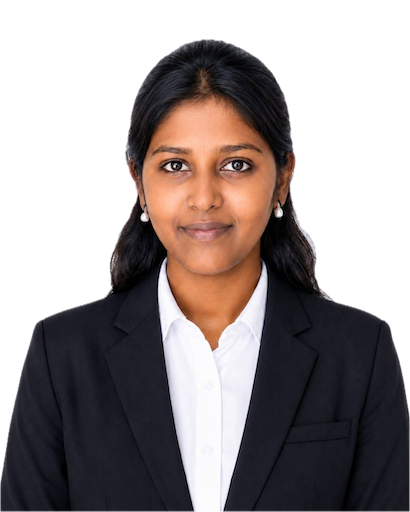
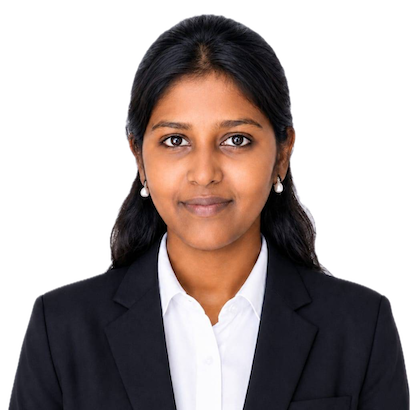
Refactor code structure for improved readability and maintainability

diff --git a/vector/src/App.css b/vector/src/App.css
@@ -162,12 +162,13 @@ h2 { font-size: clamp(52px, 7vw, 104px); line-height: .87; text-transform: upper
 
 .nav-overlay-wrapper { position: fixed; inset: 0; z-index: 100; display: none; }.overlay { position: absolute; inset: 0; border: 0; padding: 0; background: rgba(8,8,11,.78); backdrop-filter: blur(10px); cursor: pointer; }.menu-content { position: absolute; inset: 0; overflow: hidden; }.menu-bg, .ambient-background-shapes { position: absolute; inset: 0; }.menu-bg, .menu-content-wrapper, .ambient-background-shapes { pointer-events: none; }.backdrop-layer { position: absolute; inset: 0; transform-origin: left center; }.backdrop-layer.first { background: #0d0c10; }.backdrop-layer.second { background: #131118; }.backdrop-layer:last-child { background: linear-gradient(160deg, #1c1730, #0e0d12 70%); }.ambient-background-shapes { overflow: hidden; }.bg-shape { position: absolute; inset: 0; opacity: 0; transition: opacity .3s ease; }.bg-shape.active { opacity: 1; }.shape-element { transform-origin: center; }.nav-close-btn { position: absolute; top: 20px; right: 4vw; z-index: 3; display: inline-flex; align-items: center; gap: 14px; background: none; border: 0; padding: 0; color: var(--muted); font: inherit; cursor: pointer; pointer-events: auto; transition: color .2s ease; }.nav-close-btn:hover { color: var(--ink); }.menu-button-text { font-family: 'DM Mono', monospace; font-size: 10px; letter-spacing: .12em; text-transform: uppercase; }.icon-wrap { display: grid; place-items: center; width: 34px; height: 34px; border: 1px solid var(--line); border-radius: 50%; transition: border-color .3s ease; }.nav-close-btn:hover .icon-wrap { border-color: rgba(203,147,255,.55); }.menu-button-icon { width: 14px; height: 14px; color: var(--violet); }.menu-content-wrapper { position: absolute; inset: 0; display: flex; flex-direction: column; justify-content: center; z-index: 2; }.menu-list { position: relative; z-index: 2; list-style: none; margin: 0; padding: 0 8vw; display: grid; gap: 6px; }.menu-list-item { display: flex; align-items: baseline; }.nav-link { position: relative; display: inline-block; overflow: hidden; font-size: clamp(42px, 8vw, 96px); line-height: 1.08; letter-spacing: -.055em; text-transform: uppercase; color: var(--ink); transition: color .25s ease; padding: 2px 6px; pointer-events: auto; }.nav-link:hover { color: var(--violet); }.nav-link-text { position: relative; z-index: 1; }.nav-link-hover-bg { position: absolute; inset: 0; background: rgba(203,147,255,.12); transform: scaleX(0); transform-origin: left; transition: transform .45s cubic-bezier(.65, .05, 0, 1); }.nav-link:hover .nav-link-hover-bg { transform: scaleX(1); }.menu-secondary { position: absolute; left: 8vw; right: 8vw; bottom: 40px; display: flex; align-items: center; flex-wrap: wrap; gap: 10px 26px; z-index: 2; pointer-events: auto; }.menu-secondary-label { font-family: 'DM Mono', monospace; font-size: 9px; letter-spacing: .16em; color: var(--cyan); }.menu-secondary-link { font-family: 'DM Mono', monospace; font-size: 11px; letter-spacing: .1em; text-transform: uppercase; color: var(--muted); transition: color .2s ease; }.menu-secondary-link:hover { color: var(--violet); }
 
-.volunteers { max-width: none; background: var(--void); }.volunteers-heading { max-width: 820px; margin-bottom: 72px; }.volunteers-heading h2 { margin-top: 22px; }.volunteers-heading > p:not(.eyebrow) { color: var(--muted); line-height: 1.7; margin-top: 26px; }.volunteer-grid { display: grid; grid-template-columns: repeat(auto-fit, minmax(min(300px, 100%), 1fr)); gap: 1px; background: var(--line); border: 1px solid var(--line); width: 100%; }.volunteer-card { background: var(--surface); cursor: pointer; overflow: hidden; }.volunteer-card-inner { display: block; }.volunteer-card-photo { position: relative; aspect-ratio: 4 / 5; overflow: hidden; }.volunteer-card-photo img { width: 100%; height: 100%; object-fit: cover; filter: grayscale(1); transition: filter .4s ease, transform .5s ease; }.volunteer-card:hover .volunteer-card-photo img { filter: grayscale(0); transform: scale(1.04); }.volunteer-card-index { position: absolute; right: 16px; top: 14px; width: 34px; height: 34px; border: 1px solid rgba(128,224,223,.5); border-radius: 100%; display: grid; place-content: center; color: var(--cyan); font-family: 'DM Mono', monospace; font-size: 16px; background: rgba(10,10,14,.6); backdrop-filter: blur(4px); transition: rotate .3s ease; }.volunteer-card:hover .volunteer-card-index { rotate: 45deg; }.volunteer-card-meta { padding: 20px 22px 24px; border-top: 1px solid var(--line); display: grid; gap: 5px; }.volunteer-card-name { font-size: 18px; letter-spacing: -.04em; font-weight: 500; }.volunteer-card-role { color: var(--muted); font-size: 12px; }.volunteer-group { margin-top: 80px; }.volunteer-group-title { font-family: 'DM Mono', monospace; font-size: 10px; line-height: 1.4; letter-spacing: .13em; text-transform: uppercase; color: var(--violet); display: flex; align-items: center; gap: 16px; margin: 0 0 28px; }.volunteer-group-title::after { content: ''; flex: 1; height: 1px; background: var(--line); }.volunteer-feature-grid { display: grid; grid-template-columns: repeat(auto-fit, minmax(min(300px, 100%), 460px)); justify-content: center; gap: 24px; }.volunteer-feature { background: var(--surface); border: 1px solid var(--line); }.volunteer-feature .volunteer-card-photo { aspect-ratio: 4 / 5; }.volunteer-feature .volunteer-card-meta { padding: 26px 28px 30px; }.volunteer-feature .volunteer-card-name { font-size: 26px; }.volunteer-feature .volunteer-card-role { font-size: 14px; }
+.volunteers { max-width: none; background: var(--void); }.volunteers-heading { max-width: 820px; margin-bottom: 72px; }.volunteers-heading h2 { margin-top: 22px; }.volunteers-heading > p:not(.eyebrow) { color: var(--muted); line-height: 1.7; margin-top: 26px; }.volunteers-stats { display: flex; flex-wrap: wrap; align-items: center; gap: 12px 22px; margin-top: 34px; font-family: 'DM Mono', monospace; font-size: 11px; letter-spacing: .12em; text-transform: uppercase; color: var(--cyan); }.volunteers-stats span { display: inline-flex; align-items: center; gap: 10px; }.volunteers-stats span + span::before { content: '✦'; color: var(--violet); font-size: 8px; }.volunteer-grid { display: grid; grid-template-columns: repeat(auto-fit, minmax(min(300px, 100%), 1fr)); gap: 1px; background: var(--line); border: 1px solid var(--line); width: 100%; }.volunteer-card { background: var(--surface); cursor: pointer; overflow: hidden; }.volunteer-card-inner { display: block; }.volunteer-card-photo { position: relative; aspect-ratio: 4 / 5; overflow: hidden; }.volunteer-card-photo img { width: 100%; height: 100%; object-fit: cover; object-position: top; filter: grayscale(1); transition: filter .4s ease, transform .5s ease; }.volunteer-card:hover .volunteer-card-photo img { filter: grayscale(0); transform: scale(1.04); }.volunteer-card-index { position: absolute; right: 16px; top: 14px; width: 34px; height: 34px; border: 1px solid rgba(128,224,223,.5); border-radius: 100%; display: grid; place-content: center; color: var(--cyan); font-family: 'DM Mono', monospace; font-size: 16px; background: rgba(10,10,14,.6); backdrop-filter: blur(4px); transition: rotate .3s ease; }.volunteer-card:hover .volunteer-card-index { rotate: 45deg; }.volunteer-card-meta { padding: 20px 22px 24px; border-top: 1px solid var(--line); display: grid; gap: 5px; }.volunteer-card-name { font-size: 18px; letter-spacing: -.04em; font-weight: 500; }.volunteer-card-role { color: var(--muted); font-family: 'DM Mono', monospace; font-size: 11px; letter-spacing: .1em; text-transform: uppercase; }.volunteer-group { margin-top: 80px; }.volunteer-group-title { font-family: 'DM Mono', monospace; font-size: 10px; line-height: 1.4; letter-spacing: .13em; text-transform: uppercase; color: var(--violet); display: flex; align-items: center; gap: 16px; margin: 0 0 28px; }.volunteer-group-title::after { content: ''; flex: 1; height: 1px; background: var(--line); }.volunteer-feature-grid { display: grid; grid-template-columns: repeat(auto-fit, minmax(min(300px, 100%), 420px)); justify-content: center; gap: 28px; }.volunteer-feature { position: relative; background: var(--surface); border: 1px solid var(--line); overflow: hidden; }.volunteer-feature::after { content: ''; position: absolute; inset: 0; background: radial-gradient(120% 60% at 50% 0%, rgba(203,147,255,.14), transparent 62%); opacity: 0; transition: opacity .35s ease; pointer-events: none; }.volunteer-feature:hover::after { opacity: 1; }.volunteer-feature .volunteer-card-photo { aspect-ratio: 4 / 5; }.volunteer-feature .volunteer-card-meta { padding: 26px 28px 30px; }.volunteer-feature .volunteer-card-name { font-size: 25px; }.volunteer-feature .volunteer-card-role { font-family: 'DM Mono', monospace; font-size: 11px; letter-spacing: .12em; text-transform: uppercase; color: var(--cyan); }
 
-.profile-modal-backdrop { position: fixed; inset: 0; background: rgba(8,8,11,.82); backdrop-filter: blur(8px); z-index: 200; display: grid; place-items: center; padding: 24px; }.profile-modal-content { position: relative; width: min(960px, 100%); background: var(--surface); border: 1px solid var(--line); overflow: hidden; }.profile-modal-close { position: absolute; top: 14px; right: 14px; z-index: 2; width: 38px; height: 38px; border: 1px solid var(--line); background: rgba(10,10,14,.7); color: var(--ink); font-size: 20px; line-height: 1; cursor: pointer; }.profile-modal-body { display: grid; grid-template-columns: 5fr 6fr; }.profile-modal-image { position: relative; overflow: hidden; aspect-ratio: 4 / 5; }.profile-modal-image img { position: absolute; inset: 0; width: 100%; height: 100%; object-fit: cover; object-position: top; display: block; }.profile-modal-info { padding: 44px 40px; }.profile-modal-info h2 { font-size: clamp(32px, 4vw, 52px); line-height: .95; }.profile-role { color: var(--violet); font-family: 'DM Mono', monospace; font-size: 11px; letter-spacing: .08em; text-transform: uppercase; margin-top: 14px; }.profile-bio { color: var(--muted); line-height: 1.7; font-size: 14px; margin: 26px 0 34px; }.profile-social { display: flex; gap: 12px; }.profile-social a { width: 44px; height: 44px; border: 1px solid var(--line); border-radius: 100%; display: grid; place-items: center; color: var(--violet); transition: border-color .3s ease, color .3s ease, scale .3s ease; }.profile-social a:hover { border-color: var(--cyan); color: var(--cyan); scale: 1.06; }.profile-social svg { width: 18px; height: 18px; }
+.profile-modal-backdrop { position: fixed; inset: 0; background: rgba(8,8,11,.82); backdrop-filter: blur(8px); z-index: 200; display: grid; place-items: center; padding: 24px; }.profile-modal-content { position: relative; width: min(960px, 100%); max-height: calc(100dvh - 48px); overflow-y: auto; background: var(--surface); border: 1px solid var(--line); }.profile-modal-close { position: absolute; top: 14px; right: 14px; z-index: 2; width: 38px; height: 38px; border: 1px solid var(--line); background: rgba(10,10,14,.7); color: var(--ink); font-size: 20px; line-height: 1; cursor: pointer; }.profile-modal-body { display: grid; grid-template-columns: 5fr 6fr; }.profile-modal-image { position: relative; overflow: hidden; aspect-ratio: 4 / 5; }.profile-modal-image img { position: absolute; inset: 0; width: 100%; height: 100%; object-fit: cover; object-position: top; display: block; }.profile-modal-info { padding: 44px 40px; }.profile-modal-info h2 { font-size: clamp(32px, 4vw, 52px); line-height: .95; }.profile-role { color: var(--violet); font-family: 'DM Mono', monospace; font-size: 11px; letter-spacing: .08em; text-transform: uppercase; margin-top: 14px; }.profile-bio { color: var(--muted); line-height: 1.7; font-size: 14px; margin: 26px 0 34px; }.profile-social { display: flex; gap: 12px; }.profile-social a { width: 44px; height: 44px; border: 1px solid var(--line); border-radius: 100%; display: grid; place-items: center; color: var(--violet); transition: border-color .3s ease, color .3s ease, scale .3s ease; }.profile-social a:hover { border-color: var(--cyan); color: var(--cyan); scale: 1.06; }.profile-social svg { width: 18px; height: 18px; }
 
 .cinematic-footer { position: relative; height: 100dvh; }.cinematic-footer-panel { position: fixed; bottom: 0; left: 0; width: 100%; height: 100dvh; overflow: hidden; display: flex; flex-direction: column; justify-content: space-between; background: var(--void); }.footer-aurora { position: absolute; left: 50%; top: 50%; width: 80vw; height: 60vh; transform: translate(-50%, -50%); border-radius: 50%; filter: blur(48px); background: radial-gradient(circle, rgba(203,147,255,.16), rgba(128,224,223,.08) 45%, transparent 70%); animation: footer-breathe 9s ease-in-out infinite alternate; pointer-events: none; }.footer-grid { position: absolute; inset: 0; background-image: linear-gradient(rgba(232,229,237,.04) 1px, transparent 1px), linear-gradient(90deg, rgba(232,229,237,.04) 1px, transparent 1px); background-size: 60px 60px; -webkit-mask-image: linear-gradient(180deg, transparent, #000 25%, #000 75%, transparent); mask-image: linear-gradient(180deg, transparent, #000 25%, #000 75%, transparent); pointer-events: none; }.footer-giant { position: absolute; bottom: -4vh; left: 50%; font-family: 'DM Mono', monospace; font-size: clamp(110px, 22vw, 380px); line-height: .8; letter-spacing: -.08em; white-space: nowrap; color: transparent; -webkit-text-stroke: 1px rgba(203,147,255,.14); text-stroke: 1px rgba(203,147,255,.14); background: linear-gradient(180deg, rgba(232,229,237,.16), transparent 65%); -webkit-background-clip: text; background-clip: text; user-select: none; pointer-events: none; }.footer-marquee { position: absolute; top: 0; left: 0; right: 0; overflow: hidden; border-bottom: 1px solid var(--line); background: rgba(13,12,16,.7); backdrop-filter: blur(8px); padding: 12px 0; z-index: 2; }.footer-marquee-track { display: flex; width: max-content; animation: footer-marquee 38s linear infinite; }.footer-marquee-track span { font-family: 'DM Mono', monospace; font-size: 10px; letter-spacing: .18em; text-transform: uppercase; color: var(--muted); padding: 0 26px; white-space: nowrap; }.footer-marquee-track b { color: var(--violet); font-weight: 400; }.footer-body { position: relative; z-index: 1; display: flex; flex-direction: column; align-items: center; justify-content: center; flex: 1; gap: 26px; padding: 0 6vw; text-align: center; }.footer-body h2 { font-size: clamp(48px, 8vw, 118px); }.footer-actions { display: flex; gap: 12px; flex-wrap: wrap; justify-content: center; }.footer-bottom { position: relative; z-index: 1; display: flex; align-items: center; justify-content: space-between; gap: 20px; padding: 22px 6vw 30px; border-top: 1px solid var(--line); }.footer-date { font-family: 'DM Mono', monospace; font-size: 10px; letter-spacing: .1em; text-transform: uppercase; color: var(--soft); }.footer-mark { font-size: 18px; color: var(--ink); }.footer-mark span { color: var(--violet); }.footer-top-btn { width: 42px; height: 42px; border: 1px solid var(--line); border-radius: 50%; display: grid; place-items: center; color: var(--violet); background: transparent; cursor: pointer; transition: border-color .2s ease, color .2s ease, transform .2s ease; }.footer-top-btn:hover { border-color: rgba(203,147,255,.5); color: var(--cyan); transform: translateY(-2px); }.footer-top-btn:active { transform: translateY(0) scale(.96); }.footer-top-btn svg { width: 14px; height: 14px; }@keyframes footer-breathe { from { transform: translate(-50%, -50%) scale(1); opacity: .55; } to { transform: translate(-50%, -50%) scale(1.12); opacity: 1; } }@keyframes footer-marquee { to { transform: translateX(-50%); } }
 
-@media (max-width: 850px) { .profile-modal-backdrop { padding: 12px; }.profile-modal-body { grid-template-columns: 1fr; }.profile-modal-image { aspect-ratio: 4 / 3; }.profile-modal-info { padding: 28px 24px 32px; }.site-header { padding: 0; }.header-main { padding: 0 20px; gap: 14px; }.header-announce { gap: 16px; padding: 8px 20px; }.header-announce span + span::before { left: -10px; }.nav { display: none; margin-left: 0; }.resource-nav { display: none; }.header-search { width: min(220px, 40vw); }.search-field { width: 100%; }.nav-cta { margin-left: auto; }.menu-button { display: grid; gap: 5px; width: 32px; height: 32px; border: 0; margin-left: 0; background: transparent; padding: 7px 0 7px 8px; }.menu-button span { width: 23px; height: 1px; background: var(--ink); display: block; }.hero { padding: 150px 24px 36px; min-height: 780px; }.hero-meta { position: relative; right: auto; bottom: auto; margin-top: 72px; width: 100%; }.section { padding: 88px 24px; }.intro, .mission, .schedule, .venue { grid-template-columns: 1fr; gap: 38px; min-height: auto; }.intro-index { padding: 0; }.intro-content > p { margin: 30px 0 42px; }.stats-grid { grid-template-columns: repeat(2, 1fr); }.stats-grid > div:nth-child(2) { border-right: 0; }.stats-grid > div:nth-child(-n+2) { border-bottom: 1px solid var(--line); }.stats-grid > div:nth-child(odd) { padding-left: 0; }.mission { padding-top: 100px; padding-bottom: 100px; }.globe-feature-inner { grid-template-columns: 1fr; gap: 8px; padding: 40px 0; }.globe-stage { height: 320px; }.globe-canvas-host { width: min(480px, 100%); }.schedule-title { position: static; }.track-grid { grid-template-columns: 1fr 1fr; grid-auto-rows: 185px; }.track-1, .track-4, .track-5 { grid-column: auto; grid-row: auto; }.track-1 { grid-column: span 2; }.track h3 { font-size: 27px; }.ascii-block { min-height: 340px; }.rules-block { padding-bottom: 72px; }.faq-block { padding-top: 72px; }.competition-heading { margin-bottom: 44px; }.fact-grid { grid-template-columns: repeat(2, 1fr); }.fact:nth-child(2n) { border-right: 0; }.fact:nth-child(n+3) { border-top: 1px solid var(--line); padding-top: 26px; }.channel-split { grid-template-columns: 1fr; }.channel { min-height: 0; padding: 32px 26px; }.sponsor-grid { grid-template-columns: 1fr; }.sponsor-card { min-height: 0; }.sponsors-orbit { opacity: .5; }.profile-modal-body { grid-template-columns: 1fr; }.profile-modal-image { aspect-ratio: 4 / 3; }.profile-modal-info { padding: 32px 26px; }.timeline-row::after { left: 75px; }.footer-body { gap: 20px; }.footer-bottom { flex-wrap: wrap; justify-content: center; row-gap: 14px; padding: 20px 4vw 26px; }.footer-bottom .footer-date { flex-basis: 100%; text-align: center; }.footer-top-btn { position: absolute; right: 4vw; bottom: 22px; }.menu-content { overflow-y: auto; -webkit-overflow-scrolling: touch; }.nav-close-btn { top: 14px; right: 5vw; }.menu-list { padding: 0 6vw; gap: 4px; }.nav-link { font-size: clamp(30px, 9vw, 44px); }.menu-content-wrapper { justify-content: center; padding-top: 64px; padding-bottom: 72px; }.menu-secondary { bottom: 26px; left: 6vw; right: 6vw; gap: 8px 20px; }.volunteers-heading { margin-bottom: 44px; }.volunteers-heading > p:not(.eyebrow) { margin-top: 18px; }.volunteer-group { margin-top: 56px; }.volunteer-group-title { margin-bottom: 22px; }.volunteer-feature .volunteer-card-meta { padding: 22px 24px 24px; }.profile-modal-content { max-height: calc(100dvh - 24px); overflow-y: auto; -webkit-overflow-scrolling: touch; overscroll-behavior: contain; } }
-@media (max-width: 480px) { .nav-cta { display: none; }.header-announce { gap: 10px; }.header-announce span:nth-child(2) { display: none; }.header-search { width: auto; flex: 1; min-width: 0; }.search-field { width: 100%; min-width: 0; }.hero { padding: 140px 20px 32px; }.hero-actions { flex-direction: column; align-items: stretch; }.button { justify-content: center; }.hero-meta { gap: 15px; }.stats-grid strong { font-size: 50px; }.track-grid { grid-template-columns: 1fr; }.track-1 { grid-column: auto; }.timeline-row { grid-template-columns: 60px 18px 1fr; gap: 10px; }.timeline h3 { font-size: 18px; }.volunteers-heading h2 { font-size: 44px; }.volunteer-card-name { font-size: 16px; }.volunteer-feature .volunteer-card-name { font-size: 22px; }.volunteer-card-meta { padding: 16px 18px 20px; }.volunteer-feature .volunteer-card-meta { padding: 18px 20px 22px; }.profile-modal-backdrop { padding: 8px; }.profile-modal-image { aspect-ratio: 3 / 2; }.profile-modal-info { padding: 24px 20px 28px; }.profile-bio { margin: 18px 0 24px; } }
+@media (max-width: 850px) { .profile-modal-backdrop { padding: 12px; }.profile-modal-body { grid-template-columns: 1fr; }.profile-modal-image { aspect-ratio: 4 / 3; }.profile-modal-info { padding: 28px 24px 32px; }.site-header { padding: 0; }.header-main { padding: 0 20px; gap: 14px; }.header-announce { gap: 16px; padding: 8px 20px; }.header-announce span + span::before { left: -10px; }.nav { display: none; margin-left: 0; }.resource-nav { display: none; }.header-search { width: min(220px, 40vw); }.search-field { width: 100%; }.nav-cta { margin-left: auto; }.menu-button { display: grid; gap: 5px; width: 32px; height: 32px; border: 0; margin-left: 0; background: transparent; padding: 7px 0 7px 8px; }.menu-button span { width: 23px; height: 1px; background: var(--ink); display: block; }.hero { padding: 150px 24px 36px; min-height: 780px; }.hero-meta { position: relative; right: auto; bottom: auto; margin-top: 72px; width: 100%; }.section { padding: 88px 24px; }.intro, .mission, .schedule, .venue { grid-template-columns: 1fr; gap: 38px; min-height: auto; }.intro-index { padding: 0; }.intro-content > p { margin: 30px 0 42px; }.stats-grid { grid-template-columns: repeat(2, 1fr); }.stats-grid > div:nth-child(2) { border-right: 0; }.stats-grid > div:nth-child(-n+2) { border-bottom: 1px solid var(--line); }.stats-grid > div:nth-child(odd) { padding-left: 0; }.mission { padding-top: 100px; padding-bottom: 100px; }.globe-feature-inner { grid-template-columns: 1fr; gap: 8px; padding: 40px 0; }.globe-stage { height: 320px; }.globe-canvas-host { width: min(480px, 100%); }.schedule-title { position: static; }.track-grid { grid-template-columns: 1fr 1fr; grid-auto-rows: 185px; }.track-1, .track-4, .track-5 { grid-column: auto; grid-row: auto; }.track-1 { grid-column: span 2; }.track h3 { font-size: 27px; }.ascii-block { min-height: 340px; }.rules-block { padding-bottom: 72px; }.faq-block { padding-top: 72px; }.competition-heading { margin-bottom: 44px; }.fact-grid { grid-template-columns: repeat(2, 1fr); }.fact:nth-child(2n) { border-right: 0; }.fact:nth-child(n+3) { border-top: 1px solid var(--line); padding-top: 26px; }.channel-split { grid-template-columns: 1fr; }.channel { min-height: 0; padding: 32px 26px; }.sponsor-grid { grid-template-columns: 1fr; }.sponsor-card { min-height: 0; }.sponsors-orbit { opacity: .5; }.profile-modal-body { grid-template-columns: 1fr; }.profile-modal-image { aspect-ratio: 4 / 3; }.profile-modal-info { padding: 32px 26px; }.timeline-row::after { left: 75px; }.footer-body { gap: 20px; }.footer-bottom { flex-wrap: wrap; justify-content: center; row-gap: 14px; padding: 20px 4vw 26px; }.footer-bottom .footer-date { flex-basis: 100%; text-align: center; }.footer-top-btn { position: absolute; right: 4vw; bottom: 22px; }.menu-content { overflow-y: auto; -webkit-overflow-scrolling: touch; }.nav-close-btn { top: 14px; right: 5vw; }.menu-list { padding: 0 6vw; gap: 4px; }.nav-link { font-size: clamp(30px, 9vw, 44px); }.menu-content-wrapper { justify-content: center; padding-top: 64px; padding-bottom: 72px; }.menu-secondary { bottom: 26px; left: 6vw; right: 6vw; gap: 8px 20px; }.volunteers-heading { margin-bottom: 44px; }.volunteers-heading > p:not(.eyebrow) { margin-top: 18px; }.volunteers-stats { margin-top: 26px; font-size: 10px; }.volunteer-group { margin-top: 56px; }.volunteer-group-title { margin-bottom: 22px; }.volunteer-grid { grid-template-columns: repeat(2, 1fr); gap: 10px; background: transparent; border: 0; }.volunteer-grid .volunteer-card { border: 1px solid var(--line); }.volunteer-feature-grid { gap: 20px; }.volunteer-feature .volunteer-card-photo { aspect-ratio: 1 / 1; }.volunteer-feature .volunteer-card-meta { padding: 22px 24px 24px; }.volunteer-feature .volunteer-card-name { font-size: 24px; }.profile-modal-backdrop { padding: 0; align-items: end; }.profile-modal-content { width: 100%; max-height: 88dvh; border-radius: 18px 18px 0 0; overflow-y: auto; -webkit-overflow-scrolling: touch; overscroll-behavior: contain; }.profile-modal-body { grid-template-columns: 1fr; }.profile-modal-image { aspect-ratio: 16 / 10; }.profile-modal-info { padding: 26px 24px 36px; } }
+@media (max-width: 480px) { .nav-cta { display: none; }.header-announce { gap: 10px; }.header-announce span:nth-child(2) { display: none; }.header-search { width: auto; flex: 1; min-width: 0; }.search-field { width: 100%; min-width: 0; }.hero { padding: 140px 20px 32px; }.hero-actions { flex-direction: column; align-items: stretch; }.button { justify-content: center; }.hero-meta { gap: 15px; }.stats-grid strong { font-size: 50px; }.track-grid { grid-template-columns: 1fr; }.track-1 { grid-column: auto; }.timeline-row { grid-template-columns: 60px 18px 1fr; gap: 10px; }.timeline h3 { font-size: 18px; }.volunteers-heading h2 { font-size: 44px; }.volunteers-heading > p:not(.eyebrow) { margin-top: 16px; }.volunteers-stats { margin-top: 20px; }.volunteer-card-name { font-size: 15px; }.volunteer-card-role { font-size: 10px; }.volunteer-card-meta { padding: 14px 16px 18px; }.volunteer-feature .volunteer-card-photo { aspect-ratio: 1 / 1; }.volunteer-feature .volunteer-card-name { font-size: 22px; }.volunteer-feature .volunteer-card-meta { padding: 18px 20px 22px; }.profile-modal-image { aspect-ratio: 3 / 2; }.profile-modal-info { padding: 24px 20px 32px; }.profile-bio { margin: 18px 0 24px; } }
 @media (prefers-reduced-motion: reduce) { *, *::before, *::after { animation-duration: .01ms !important; animation-iteration-count: 1 !important; scroll-behavior: auto !important; transition-duration: .01ms !important; } }
+@media (hover: none) { .volunteer-card-photo img { filter: grayscale(0); }.volunteer-feature::after { opacity: .5; } }

diff --git a/vector/src/data/volunteers.js b/vector/src/data/volunteers.js
@@ -17,6 +17,8 @@ import catherineAvatar from '../assets/volunteers/catherine.png'
 import surekaAvatar from '../assets/volunteers/sureka.png'
 import varthiniAvatar from '../assets/volunteers/varthini.png'
 import darshiniAvatar from '../assets/volunteers/darshini.png'
+import kanishkavAvatar from '../assets/volunteers/kanishkav.png'
+import jenitaAvatar from '../assets/volunteers/jenita.png'
 
 export const VOLUNTEER_GROUPS = [
   { category: 'principal', title: 'Patron' },
@@ -270,10 +272,36 @@ export const volunteers = [
     name: 'Darshini N A',
     role: 'Discord Moderator',
     avatar: darshiniAvatar,
-    bio: 'Curiosity drives the journey, and every challenge brings something new. Exploring cybersecurity, Red Teaming, and CTFs while learning and growing with every challenge.q',
+    bio: 'Curiosity drives the journey, and every challenge brings something new. Exploring cybersecurity, Red Teaming, and CTFs while learning and growing with every challenge.',
     social: {
       github: 'https://github.com/DarshiniAmar',
       linkedin: 'https://www.linkedin.com/in/darshini-n-a-035824390',
+      instagram: '',
+      website: '',
+    },
+  },{
+    id: 20,
+    category: 'volunteer',
+    name: 'Kanishka V',
+    role: 'Volunteer',
+    avatar: kanishkavAvatar,
+    bio: 'Capturing Moments • Creating Impact. Driven by Tech & Creativity. Making Every Event Memorable.',
+    social: {
+      github: 'https://github.com/KANISHKA-VELU',
+      linkedin: 'https://www.linkedin.com/in/kanishka-v-b1850a3bb',
+      instagram: '',
+      website: '',
+    },
+  },{
+    id: 21,
+    category: 'volunteer',
+    name: 'Jenita M',
+    role: 'Volunteer',
+    avatar: jenitaAvatar,
+    bio: 'Focused on SOC Operations, Threat Detection, SIEM, Network Security & Ethical Hacking. Always learning, practicing, and contributing to the cybersecurity community.',
+    social: {
+      github: 'https://github.com/Jenita-06',
+      linkedin: 'https://linkedin.com/in/jenita-m-483b11375',
       instagram: '',
       website: '',
     },

diff --git a/vector/src/components/VolunteersPage.jsx b/vector/src/components/VolunteersPage.jsx
@@ -9,11 +9,24 @@ const FEATURE_CATEGORIES = new Set(['principal', 'dean', 'hod', 'faculty', 'visi
 export default function VolunteersPage() {
   const [selectedVolunteer, setSelectedVolunteer] = useState(null)
   const reduceMotion = useReducedMotion()
+  const activeGroups = VOLUNTEER_GROUPS.filter(g => volunteers.some(v => v.category === g.category))
+
+  const openProfile = (volunteer) => setSelectedVolunteer(volunteer)
 
   const renderCard = (volunteer, feature) => (
     <motion.div
       key={volunteer.id}
-      onClick={() => setSelectedVolunteer(volunteer)}
+      role="button"
+      tabIndex={0}
+      aria-label={`View ${volunteer.name}'s profile`}
+      aria-haspopup="dialog"
+      onClick={() => openProfile(volunteer)}
+      onKeyDown={(e) => {
+        if (e.key === 'Enter' || e.key === ' ') {
+          e.preventDefault()
+          openProfile(volunteer)
+        }
+      }}
       className={'volunteer-card' + (feature ? ' volunteer-feature' : '')}
       initial={reduceMotion ? false : { scale: 0.95 }}
       whileInView={{ scale: 1 }}
@@ -33,6 +46,10 @@ export default function VolunteersPage() {
           <p className="eyebrow">[ 010 / VOLUNTEER TEAM ]</p>
           <h2>Meet the<br /><em>team.</em></h2>
           <p>The heart of V3CT0R CTF 26.</p>
+          <div className="volunteers-stats">
+            <span>{volunteers.length} profiles</span>
+            <span>{activeGroups.length} squads</span>
+          </div>
         </div>
 
         {VOLUNTEER_GROUPS.map(group => {
